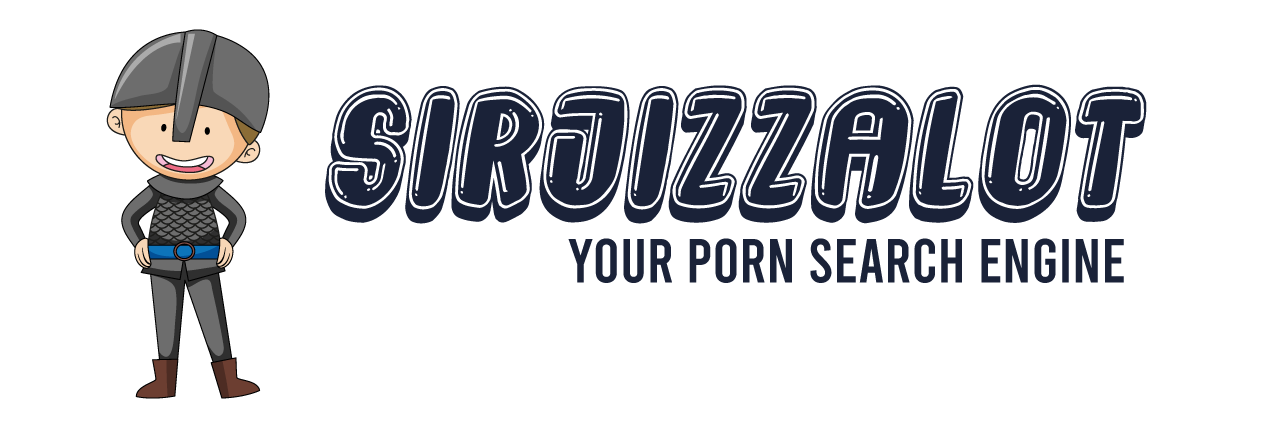
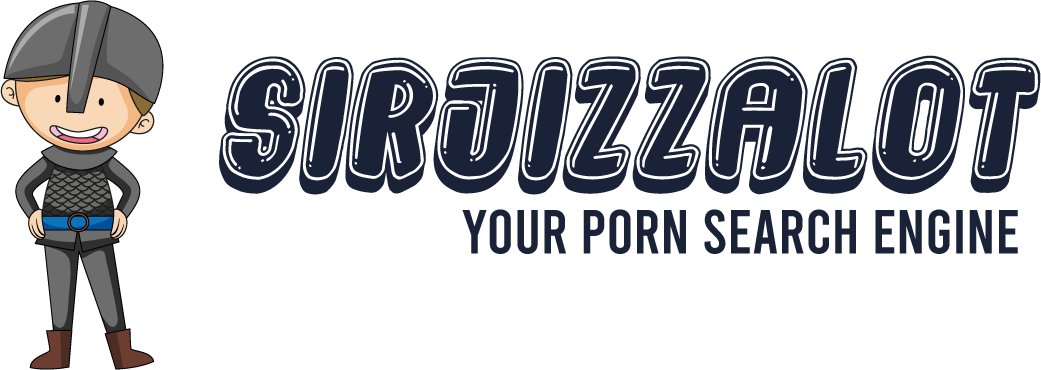
Index responsive

diff --git a/static/css/style.css b/static/css/style.css
@@ -13,11 +13,11 @@ header{
     background-color: #ff6a3d;
     text-align: center;
     font-family: -apple-system, BlinkMacSystemFont, 'Segoe UI', Roboto, Oxygen, Ubuntu, Cantarell, 'Open Sans', 'Helvetica Neue', sans-serif;
-    padding: 0.2rem;
+    padding: 2rem;
 }
 
 .logo{
-    height: 20vh;
+    width: 85vw;
 }
 
 .container {
@@ -73,3 +73,13 @@ header{
     margin-left: 0.2rem;
     margin-right: 0.2rem;
 }
+
+
+
+/* Media Queries */
+
+@media screen and (min-width: 768px) {
+    .textinput {
+        width: 80vw !important;
+    }
+  }
